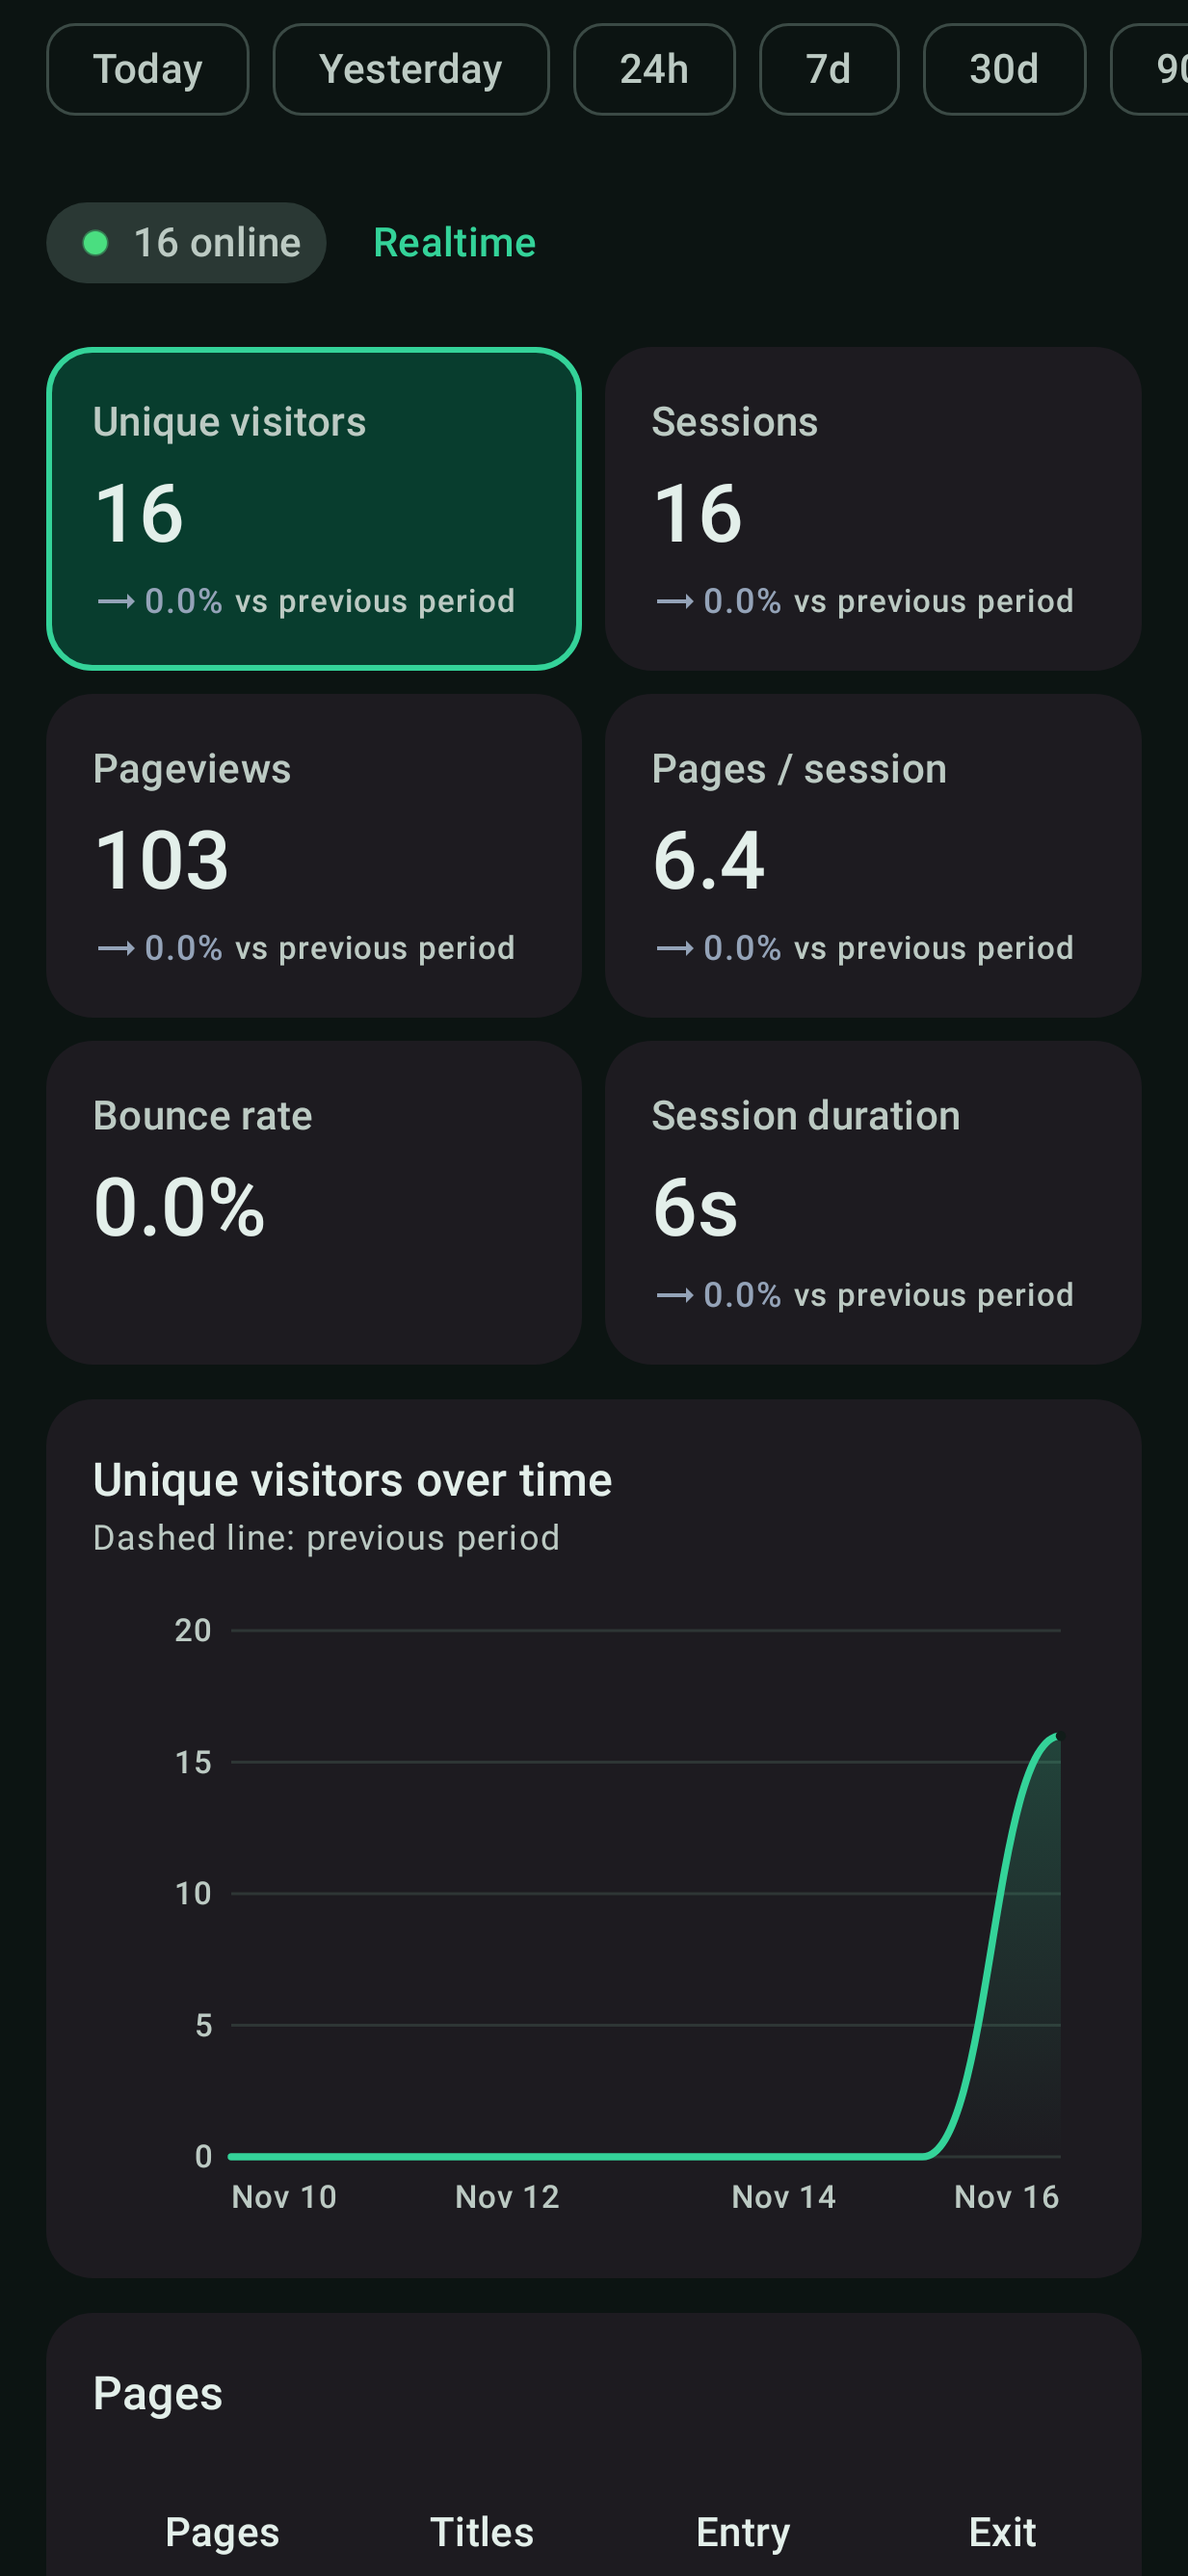
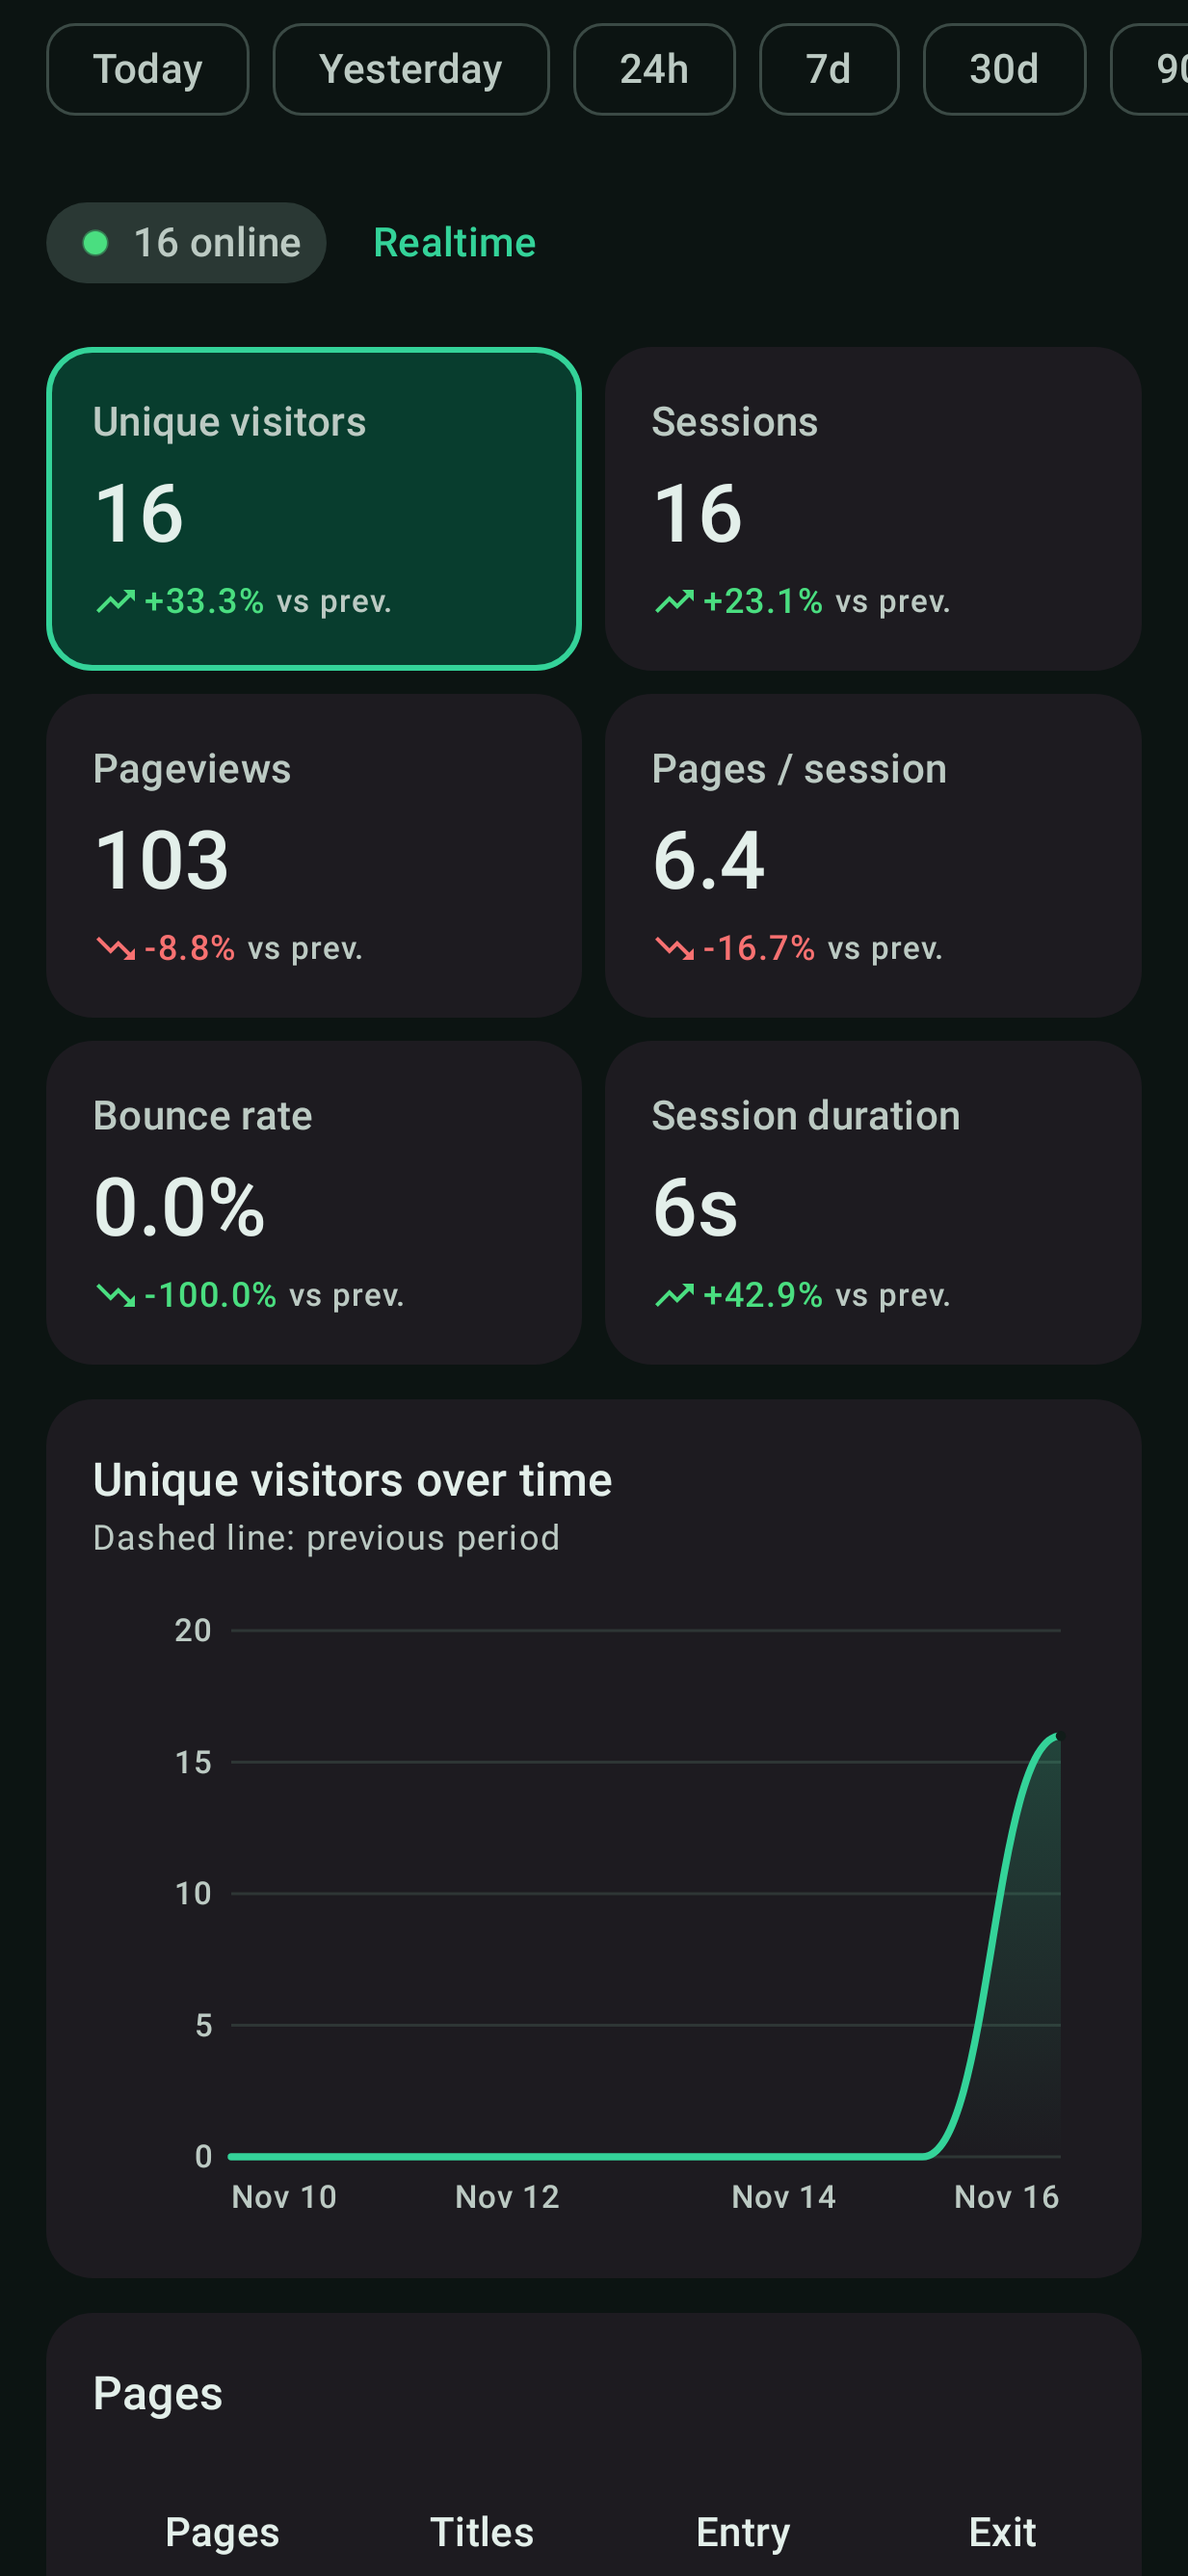
fix(ui): compact KPI tiles for 3-column grids, shorter delta label; realistic previous period in screenshots

diff --git a/app/src/main/java/app/rybbitclient/core/ui/components/KpiCard.kt b/app/src/main/java/app/rybbitclient/core/ui/components/KpiCard.kt
@@ -46,6 +46,9 @@ private const val KPI_MIN_HEIGHT_DP = 104
 private const val SELECTED_BORDER_DP = 2
 private const val DELTA_CONTEXT_LABEL = "vs previous period"
 
+/** Visible short form; the full [DELTA_CONTEXT_LABEL] stays in the accessibility description. */
+private const val DELTA_CONTEXT_SHORT = "vs prev."
+
 /** Direction of a change, independent of whether that direction is good or bad. */
 enum class DeltaTrend { Up, Down, Flat }
 
@@ -72,6 +75,7 @@ fun KpiCard(
     isInverse: Boolean = false,
     selected: Boolean = false,
     onClick: (() -> Unit)? = null,
+    compact: Boolean = false,
 ) {
     val colors = MaterialTheme.colorScheme
     val containerColor = if (selected) colors.primaryContainer.copy(alpha = 0.55f) else colors.surfaceContainerLow
@@ -85,7 +89,7 @@ fun KpiCard(
         }
     val cardColors = CardDefaults.cardColors(containerColor = containerColor)
     val content: @Composable () -> Unit = {
-        KpiContent(label = label, value = value, deltaPercent = deltaPercent, isInverse = isInverse)
+        KpiContent(label = label, value = value, deltaPercent = deltaPercent, isInverse = isInverse, compact = compact)
     }
     if (onClick != null) {
         Card(onClick = onClick, modifier = cardModifier, colors = cardColors, border = border) { content() }
@@ -100,19 +104,28 @@ private fun KpiContent(
     value: String,
     deltaPercent: Double?,
     isInverse: Boolean,
+    compact: Boolean,
 ) {
-    Column(modifier = Modifier.fillMaxWidth().padding(Spacing.lg)) {
+    // Narrow tiles (3+ per row) get tighter padding, a two-line label and a smaller number so values like
+    // "100.0%" and labels like "Share of errors" fit instead of being ellipsized.
+    val padding = if (compact) Spacing.md else Spacing.lg
+    val valueStyle = if (compact) {
+        MaterialTheme.typography.metricValue.copy(fontSize = MaterialTheme.typography.titleLarge.fontSize)
+    } else {
+        MaterialTheme.typography.metricValue
+    }
+    Column(modifier = Modifier.fillMaxWidth().padding(padding)) {
         Text(
             text = label,
             style = MaterialTheme.typography.labelLarge,
             color = MaterialTheme.colorScheme.onSurfaceVariant,
-            maxLines = 1,
+            maxLines = if (compact) 2 else 1,
             overflow = TextOverflow.Ellipsis,
         )
         Spacer(Modifier.height(Spacing.xs))
         Text(
             text = value,
-            style = MaterialTheme.typography.metricValue,
+            style = valueStyle,
             color = MaterialTheme.colorScheme.onSurface,
             maxLines = 1,
             overflow = TextOverflow.Ellipsis,
@@ -148,7 +161,7 @@ private fun DeltaRow(deltaPercent: Double, isInverse: Boolean) {
         )
         Spacer(Modifier.width(Spacing.xs))
         Text(
-            text = DELTA_CONTEXT_LABEL,
+            text = DELTA_CONTEXT_SHORT,
             style = MaterialTheme.typography.labelSmall,
             color = MaterialTheme.colorScheme.onSurfaceVariant,
             maxLines = 1,
@@ -213,6 +226,7 @@ fun KpiGrid(
                         selected = item.key == selectedKey,
                         onClick = onItemClick?.let { callback -> { callback(item.key) } },
                         modifier = Modifier.weight(1f).fillMaxHeight(),
+                        compact = columnCount >= COMPACT_COLUMN_THRESHOLD,
                     )
                 }
                 repeat(columnCount - rowItems.size) {
@@ -259,3 +273,6 @@ private fun KpiGridPreview() {
         )
     }
 }
+
+/** Grids with this many columns or more render compact tiles. */
+private const val COMPACT_COLUMN_THRESHOLD = 3

diff --git a/app/src/test/java/app/rybbitclient/screenshots/FixtureAnalyticsRepository.kt b/app/src/test/java/app/rybbitclient/screenshots/FixtureAnalyticsRepository.kt
@@ -27,6 +27,7 @@ import app.rybbitclient.core.model.Site
 import app.rybbitclient.core.model.UserDetail
 import app.rybbitclient.core.model.UsersResponse
 import app.rybbitclient.core.query.AnalyticsQuery
+import app.rybbitclient.core.query.DateRange
 import app.rybbitclient.core.query.TimeBucket
 import app.rybbitclient.testsupport.FixtureFiles
 import app.rybbitclient.testsupport.apiReplying
@@ -55,8 +56,23 @@ class FixtureAnalyticsRepository : AnalyticsRepository {
 
     override suspend fun site(siteId: String): Site = fixtureApi("site.json").site(siteId)
 
-    override suspend fun overview(siteId: String, query: AnalyticsQuery): Overview =
-        fixtureApi("overview.json").overview(siteId, query)
+    override suspend fun overview(siteId: String, query: AnalyticsQuery): Overview {
+        val current = fixtureApi("overview.json").overview(siteId, query)
+        val range = query.range
+        val isPreviousPeriod = range is DateRange.ElapsedWindow ||
+            (range is DateRange.Custom && range.end.toString() < SCREENSHOT_RANGE_START)
+        return if (isPreviousPeriod) previousPeriodOf(current) else current
+    }
+
+    /** A plausible earlier week so the KPI tiles show real up/down deltas instead of 0.0%. */
+    private fun previousPeriodOf(current: Overview): Overview = current.copy(
+        users = current.users?.let { (it * 0.8).toInt() },
+        sessions = current.sessions?.let { (it * 0.85).toInt() },
+        pageviews = current.pageviews?.let { (it * 1.1).toInt() },
+        pagesPerSession = current.pagesPerSession?.let { it * 1.2 },
+        bounceRate = 12.5,
+        sessionDuration = current.sessionDuration?.let { it * 0.7 },
+    )
 
     override suspend fun overviewTimeSeries(siteId: String, query: AnalyticsQuery, bucket: TimeBucket): List<OverviewPoint> {
         val file = if (bucket == TimeBucket.Hour) "overview_timeseries_hour.json" else "overview_timeseries_day.json"
